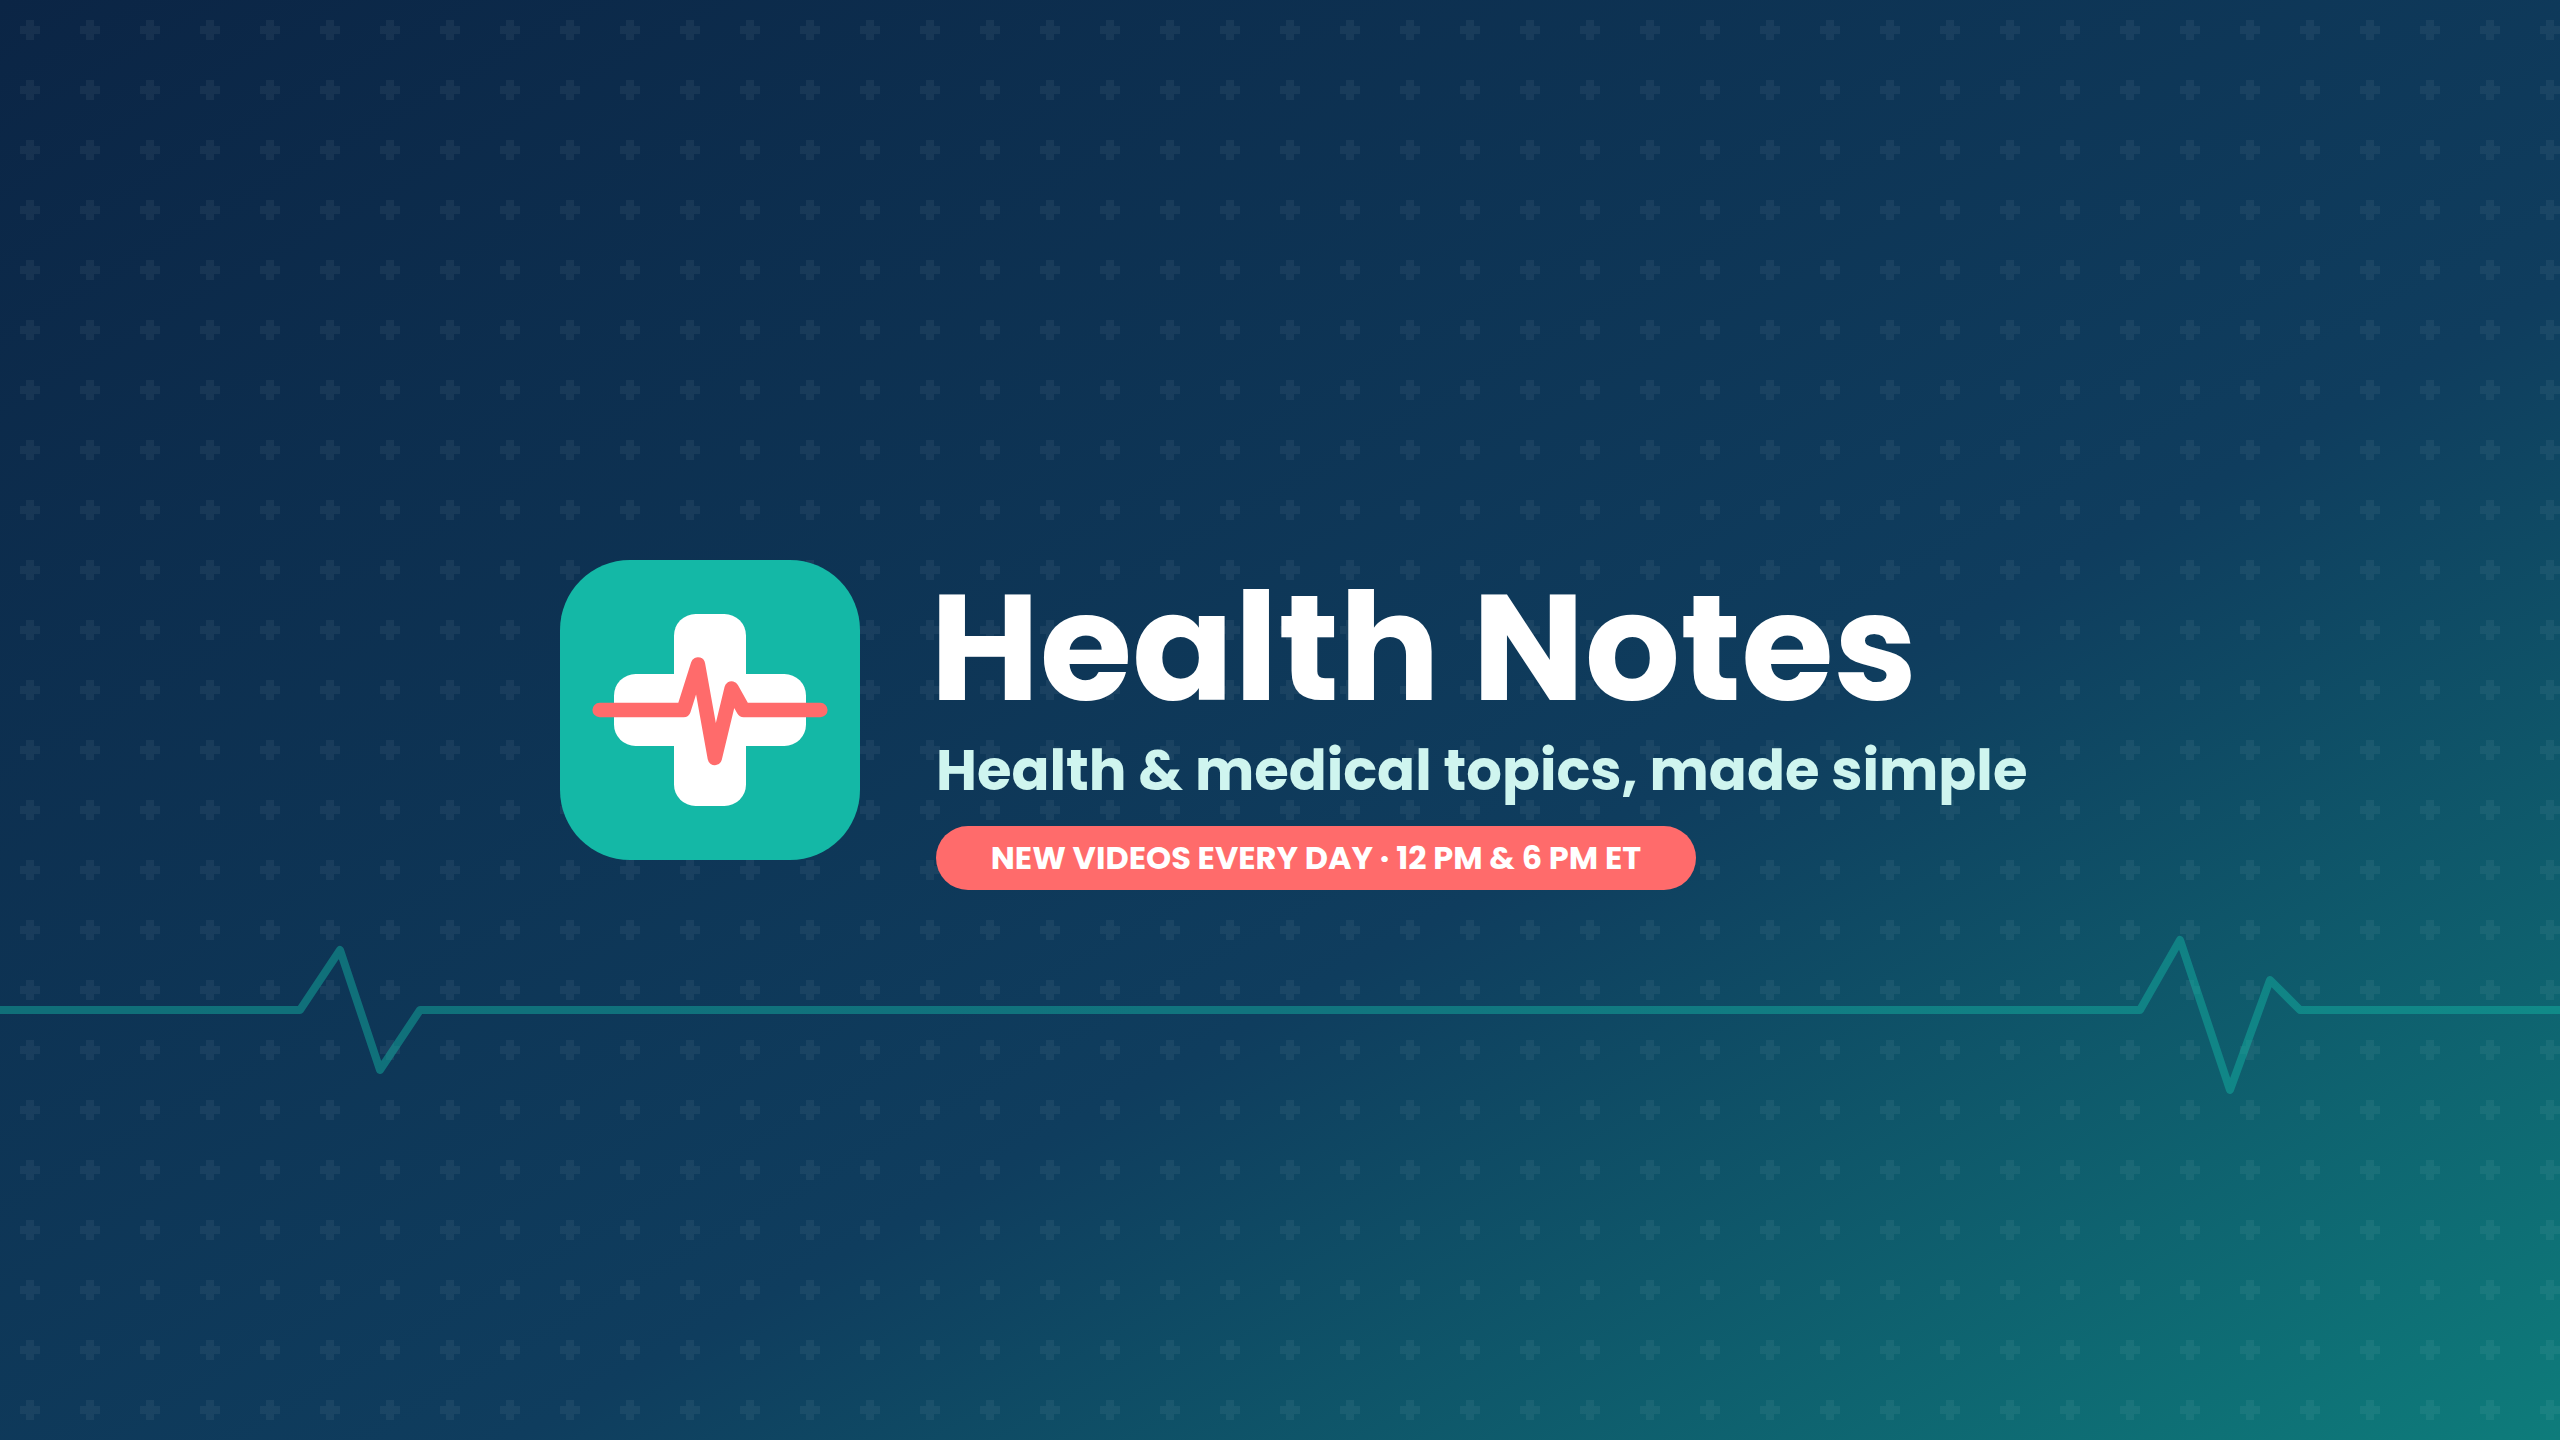
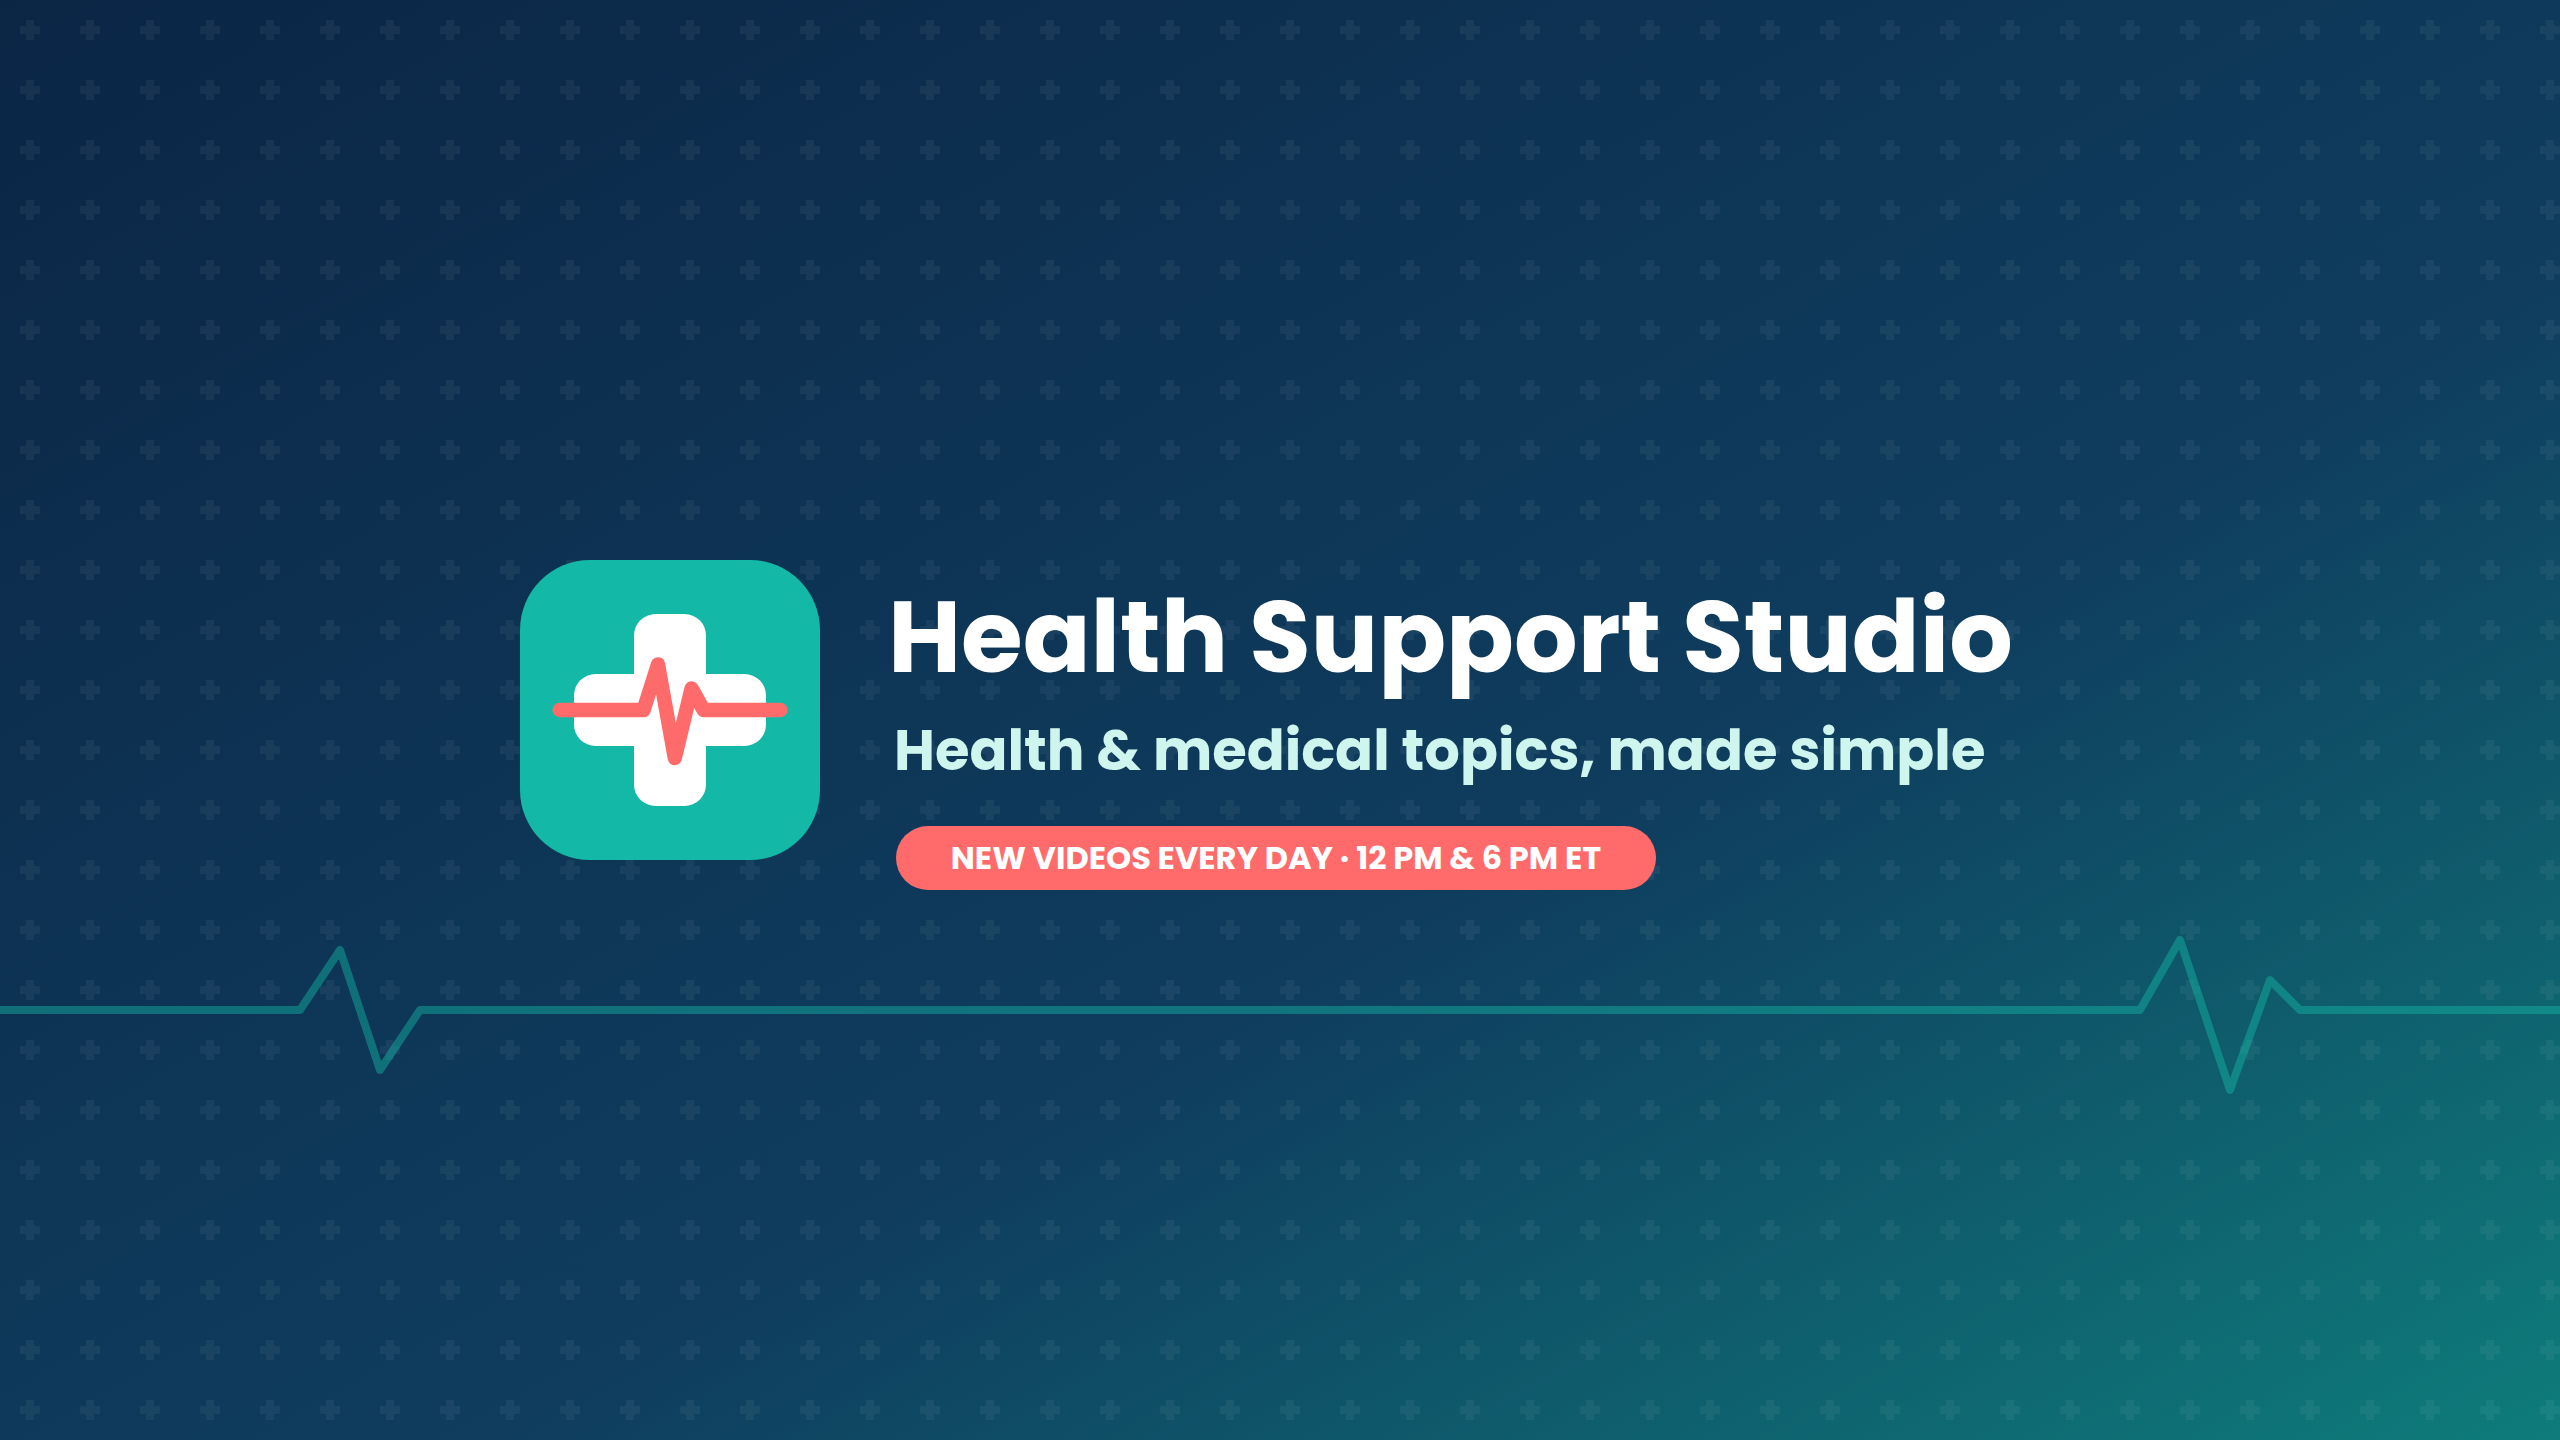
Rebrand channel as Health Support Studio
Banner, description and upload footer use the new name and the
healthsupportstudio@gmail.com contact address.

Claude-Session: https://claude.ai/code/session_01QxHNsVEEH4evQ17iDsM5sX

Changed region(s): [[0.1875, 0.375, 0.8125, 0.625], [0.2188, 0.375, 0.25, 0.4062]]

diff --git a/branding/banner.html b/branding/banner.html
@@ -14,7 +14,7 @@ html,body{margin:0;width:2560px;height:1440px;overflow:hidden}
   <polyline points="0,1010 300,1010 340,950 380,1070 420,1010 2140,1010 2180,940 2230,1090 2270,980 2300,1010 2560,1010"
             fill="none" stroke="#14B8A6" stroke-width="8" stroke-linecap="round" stroke-linejoin="round" opacity="0.45"/>
   <!-- safe area content: centered 1546x423 box at x=507..2053, y=508..931 -->
-  <g transform="translate(560,560)">
+  <g transform="translate(520,560)">
     <rect width="300" height="300" rx="70" fill="#14B8A6"/>
     <g transform="translate(30,30) scale(1.2)"><!-- cross + heartbeat mark, drawn in a 200x200 box -->
 <g>
@@ -24,9 +24,9 @@ html,body{margin:0;width:2560px;height:1440px;overflow:hidden}
             fill="none" stroke="#FF6B6B" stroke-width="12" stroke-linecap="round" stroke-linejoin="round"/>
 </g></g>
   </g>
-  <text x="930" y="700" font-family="Poppins" font-weight="800" font-size="150" fill="#FFFFFF">Health Notes</text>
-  <text x="936" y="790" font-family="Poppins" font-weight="500" font-size="56" fill="#CFF5EF">Health &amp; medical topics, made simple</text>
-  <g transform="translate(936,826)">
+  <text x="888" y="672" font-family="Poppins" font-weight="800" font-size="100" fill="#FFFFFF">Health Support Studio</text>
+  <text x="894" y="770" font-family="Poppins" font-weight="500" font-size="56" fill="#CFF5EF">Health &amp; medical topics, made simple</text>
+  <g transform="translate(896,826)">
     <rect width="760" height="64" rx="32" fill="#FF6B6B"/>
     <text x="380" y="43" text-anchor="middle" font-family="Poppins" font-weight="700" font-size="32" fill="#FFFFFF">NEW VIDEOS EVERY DAY · 12 PM &amp; 6 PM ET</text>
   </g>

diff --git a/branding/channel-info.md b/branding/channel-info.md
@@ -1,20 +1,14 @@
 # Channel branding
 
-## Channel name ideas
-1. **Health Notes** (recommended; used in the banner)
-2. Health Notes Daily
-3. Medical Made Simple
-4. Health Explained Daily
-5. The Health Desk
-6. Everyday Medical Explained
-
-Handle: `@HealthNotesDaily` (or `@HealthNotes` if it's available)
+- **Channel name:** Health Support Studio
+- **Handle:** `@HealthSupportStudio` (fallbacks: `@HealthSupportStudioUS`, `@HealthSupportStudioTV`)
+- **Channel email (Google account):** healthsupportstudio@gmail.com
 
 ## Channel description (paste into YouTube Studio → Customization → Basic info)
 
-Everyday health and medical topics, made simple.
+Health & medical topics, made simple.
 
-Welcome to Health Notes! Every day we break down the health questions people actually ask, in plain, simple English:
+Welcome to Health Support Studio! Every day we break down the health questions people actually ask, in plain, simple English:
 • What your blood pressure, cholesterol and blood test numbers really mean
 • Warning signs you should never ignore, and when to call 911
 • Medication safety, and how to use over-the-counter medicines correctly
@@ -27,10 +21,19 @@ Disclaimer: This channel is for general education only and is not medical advice
 
 Videos are presented by an AI avatar, and every script is fact-checked against trusted health sources such as the CDC and NIH.
 
+📧 Business inquiries: healthsupportstudio@gmail.com
+
+## Contact info (Studio → Customization → Basic info → Contact info)
+healthsupportstudio@gmail.com
+
 ## Channel keywords (Studio → Settings → Channel)
-health, health education, medical explained, health tips, blood pressure, diabetes, first aid, CPR, heart health, medication safety, medical topics, healthcare USA, wellness, patient education, health notes
+health, health education, medical explained, health tips, blood pressure, diabetes, first aid, CPR, heart health, medication safety, medical topics, healthcare USA, wellness, patient education, health support studio
 
 ## Upload the images
 - **Logo**: `logo.png` (800×800). Studio → Customization → Branding → Picture.
 - **Banner**: `banner.png` (2560×1440). Studio → Customization → Branding → Banner image.
-- If you pick a different name, edit the name in `banner.html` and tell Claude to re-render it.
+
+## Important: use this same Google account everywhere
+- Create the channel while signed in as healthsupportstudio@gmail.com.
+- Add healthsupportstudio@gmail.com as a **test user** on the Google Cloud OAuth consent screen.
+- When `python -m youtube_agent.main --setup-youtube` opens the browser, sign in as healthsupportstudio@gmail.com.

diff --git a/youtube_agent/README.md b/youtube_agent/README.md
@@ -2,7 +2,7 @@
 
 Fully automatic educational YouTube channel presented by **your own AI avatar**.
 
-This channel is set up as **Health Notes**, everyday health and medical education for a **US audience in American English**.
+This channel is set up as **Health Support Studio**, everyday health and medical education for a **US audience in American English**.
 
 Every run it:
 1. **Picks a topic.** It takes the next one from the `topic_queue` in `config.yaml` (20 starter topics are included), then invents new ones in your niche without repeating itself.
